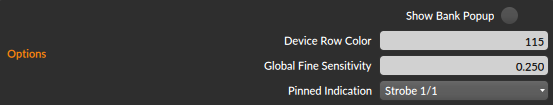
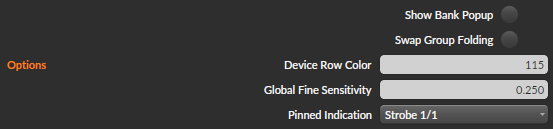
Add option to swap the group folding behaviour
- Update docs
- Bump version to 2.1.0

diff --git a/src/main/java/io/github/dozius/TwisterSisterExtension.java b/src/main/java/io/github/dozius/TwisterSisterExtension.java
@@ -159,6 +159,12 @@ public class TwisterSisterExtension extends ControllerExtension
     twister.setPopupEnabled(popupEnabled.get());
     popupEnabled.addValueObserver(twister::setPopupEnabled);
 
+    // Use default or swapped group folding behaviour
+    final SettableBooleanValue swapGroupFolding = preferences.getBooleanSetting("Swap Group Folding",
+                                                                                "Options", false);
+    twister.setGroupFoldingSwapped(swapGroupFolding.get());
+    swapGroupFolding.addValueObserver(twister::setGroupFoldingSwapped);
+
     // Set the color used for the row of controls related to devices, i.e. second row
     final SettableRangedValue deviceRowColor = preferences.getNumberSetting("Device Row Color",
                                                                             "Options", 0, 125, 1,
@@ -279,8 +285,10 @@ public class TwisterSisterExtension extends ControllerExtension
     selectionKnob.ringLight().observeValue(new CursorNormalizedValue(cursorTrack, trackBank));
     selectionKnob.rgbLight().setColorSupplier(cursorTrack.color());
     selectionKnob.button().setShiftButton(shiftButton);
-    selectionKnob.button().addClickedObserver(() -> trackGroupNavigator.navigateGroups(true));
-    selectionKnob.button().addShiftClickedObserver(() -> trackGroupNavigator.navigateGroups(false));
+    selectionKnob.button()
+                 .addClickedObserver(() -> trackGroupNavigator.navigateGroups(!twister.IsGroupFoldingSwapped()));
+    selectionKnob.button()
+                 .addShiftClickedObserver(() -> trackGroupNavigator.navigateGroups(twister.IsGroupFoldingSwapped()));
     selectionKnob.button().addLongPressedObserver(cursorTrack.isPinned()::toggle);
     selectionKnob.button().addShiftLongPressedObserver(cursorTrack.arm()::toggle);
     bindPinnedInidcator(cursorTrack, selectionKnob.rgbLight());

diff --git a/src/main/java/io/github/dozius/twister/Twister.java b/src/main/java/io/github/dozius/twister/Twister.java
@@ -68,6 +68,7 @@ public class Twister
   private final ControllerHost host;
 
   private boolean popupEnabled = false;
+  private boolean isGroupFoldingSwapped = false;
   private int activeBank = -1;
 
   /**
@@ -144,6 +145,24 @@ public class Twister
   public void setPopupEnabled(boolean enabled)
   {
     popupEnabled = enabled;
+  }
+
+  /**
+   * Swaps the group folding behaviour when holding shift.
+   *
+   * @param swap True to swap behaviour, false to use the default behaviour.
+   */
+  public void setGroupFoldingSwapped(boolean swap)
+  {
+    isGroupFoldingSwapped = swap;
+  }
+
+  /**
+   * @return True if swap is enabled; otherwise false.
+   */
+  public boolean IsGroupFoldingSwapped()
+  {
+    return isGroupFoldingSwapped;
   }
 
   /** Turns off all lights on the Twister. */

diff --git a/src/main/java/io/github/dozius/TwisterSisterExtensionDefinition.java b/src/main/java/io/github/dozius/TwisterSisterExtensionDefinition.java
@@ -47,7 +47,7 @@ public class TwisterSisterExtensionDefinition extends ControllerExtensionDefinit
   @Override
   public String getVersion()
   {
-    return "2.0.2";
+    return "2.1.0";
   }
 
   @Override

diff --git a/docs/README.md b/docs/README.md
@@ -7,11 +7,12 @@ A Bitwig Studio controller extension for the
 
 - [Installation](#installation)
 - [Hardware](#hardware)
-  - [Track & Device Bank (Bank 1)](#track--device-bank-bank-1)
+  - [Track \& Device Bank (Bank 1)](#track--device-bank-bank-1)
     - [Notes](#notes)
   - [User Mappable Bank (Bank 2-4)](#user-mappable-bank-bank-2-4)
 - [Options](#options)
   - [Show Bank Popup](#show-bank-popup)
+  - [Swap Group Folding](#swap-group-folding)
   - [Device Row Color](#device-row-color)
   - [Global Fine Sensitivity](#global-fine-sensitivity)
   - [Pinned Indication](#pinned-indication)
@@ -121,6 +122,11 @@ the controller settings in the Bitwig Studio dashboard.
 
 Enable/disable showing a popup notification when banks are changed.
 
+### Swap Group Folding
+
+By default groups will be folded while navigating unless shift is held. Enabling this swaps this
+behaviour.
+
 ### Device Row Color
 
 Sets the color used for knobs 5-8 in the [track & device bank](#Track-&-Device-Bank-(Bank-1)). This
@@ -136,7 +142,9 @@ movement.
 Sets the light animation that will be used to indicate when a track or device is pinned. These
 animations are described in the twister user manual.
 
-When a track or device is pinned, the MIDI Fighter Twister will not follow the current track or device selected with the mouse or another controller. Info about the state of a pinned track or device is available in the Studio I/O panel in Bitwig Studio.
+When a track or device is pinned, the MIDI Fighter Twister will not follow the current track or
+device selected with the mouse or another controller. Info about the state of a pinned track or
+device is available in the Studio I/O panel in Bitwig Studio.
 
 ## Project Settings
 
